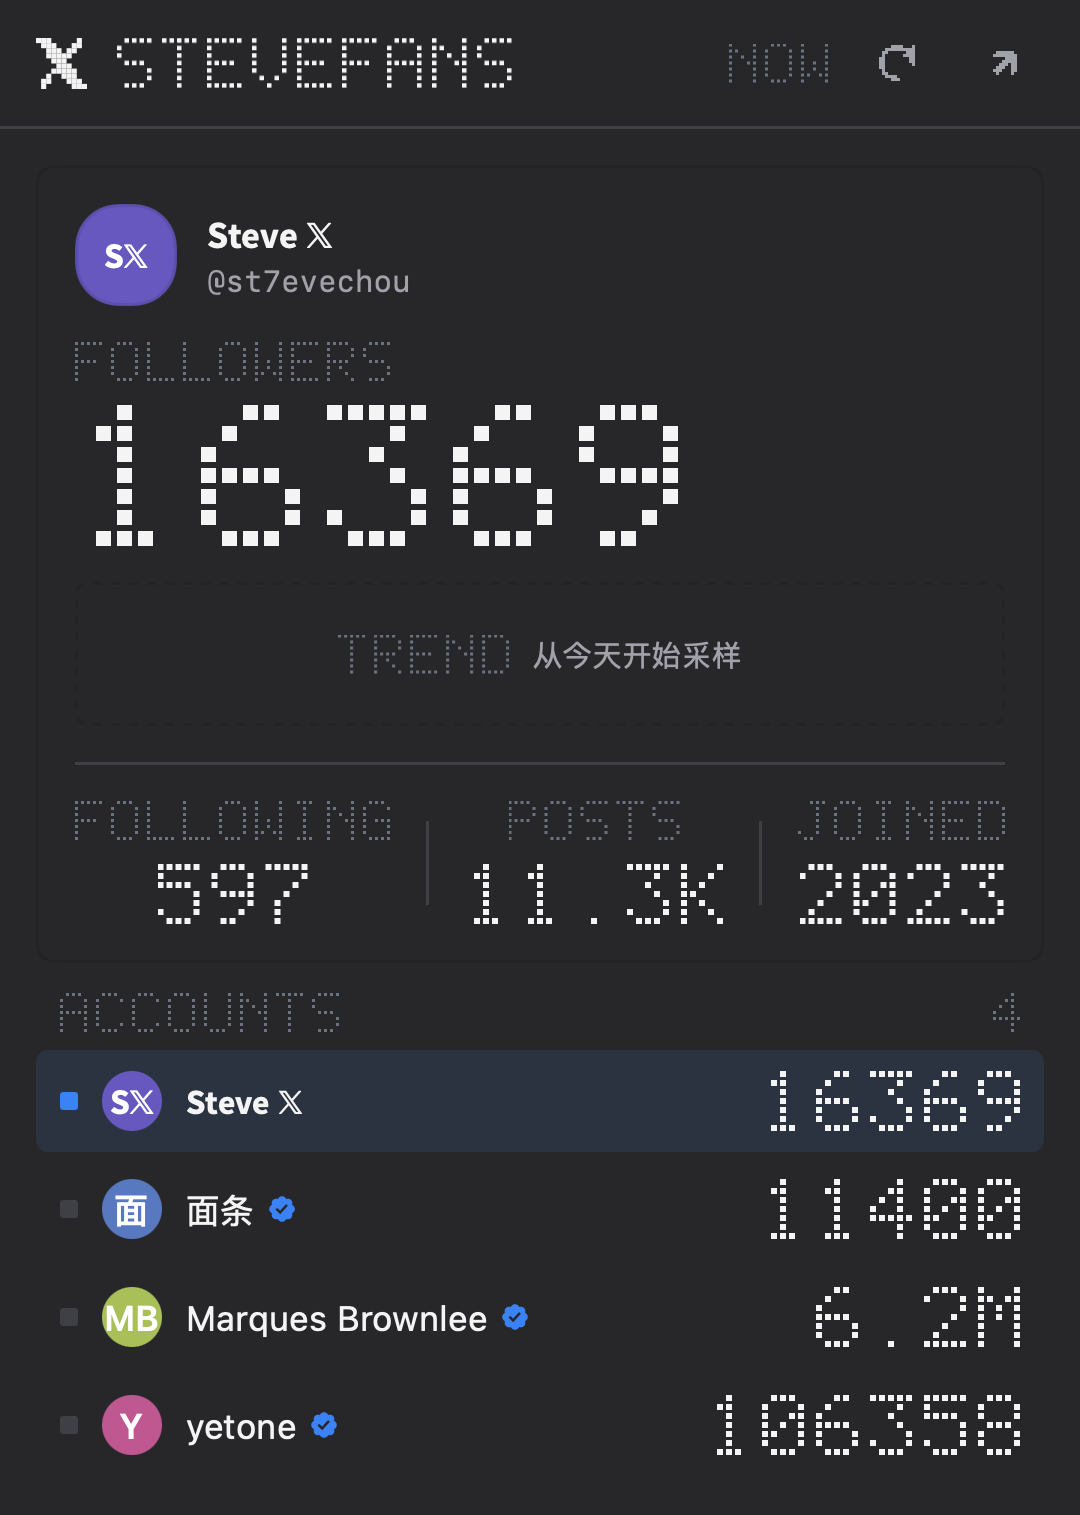
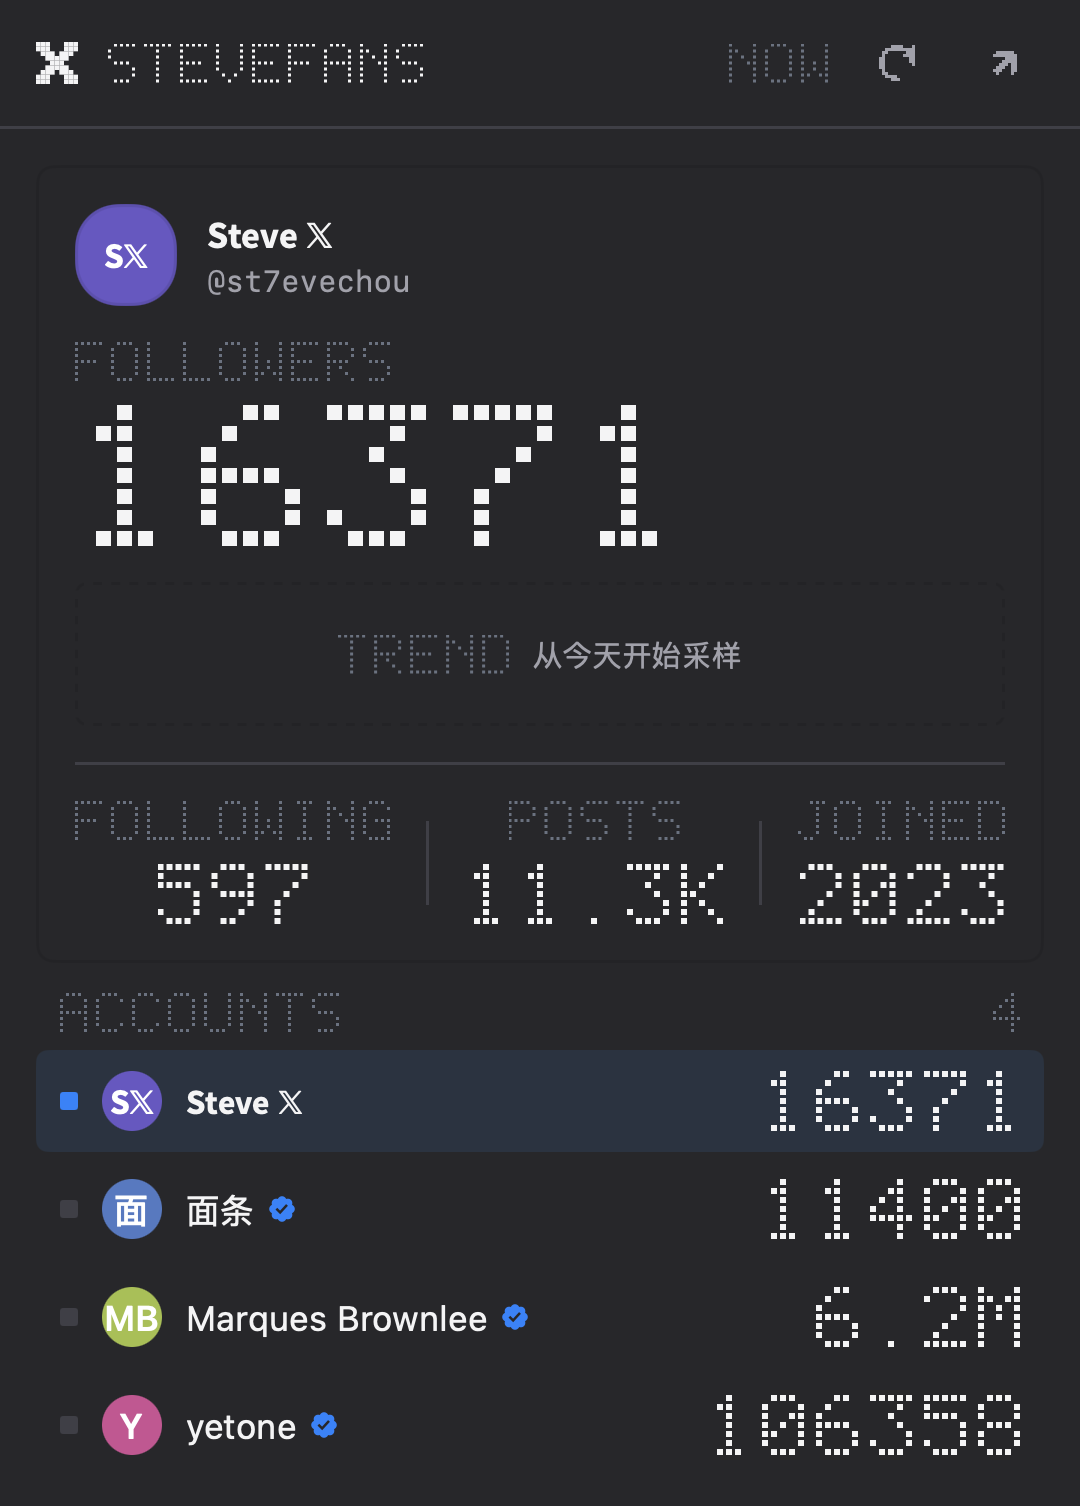
fix(dashboard): 1.12.3 — smaller title and a hand-drawn pixel X
The title drops from 2.5x to 2x (16.5 to 13 DIP) and the X mark becomes a
9x9 pixel drawing at 14 DIP: flat-ended bars read better than the previous
polygon raster, which turned ragged at that size. Header row shrinks to
31 DIP, so the tracked panel height is about 502 DIP with four accounts.

diff --git a/README.md b/README.md
@@ -24,7 +24,7 @@
 - **主读数 + 账号列表**：面板上方是一张主读数卡，显示当前选中账号的头像、昵称、认证徽章、点阵粉丝数、7 天涨跌、14 天面积图，以及 FOLLOWING / POSTS / JOINED。填写多个账号时，下方按行列出每个账号的粉丝数和涨跌。
 - **切换选中账号**：点一行把该账号换到主读数，双击在 X 打开；选择写入 `localStorage`，下次打开保持不变。菜单栏始终显示第一个账号的粉丝数。
 - **点阵数据层**：标题、粉丝数、FOLLOWERS / FOLLOWING / POSTS / JOINED、涨跌、更新时间和错误标签都用 5×7 点阵绘制；昵称、`@handle` 和中文提示保留原生字体。
-- **点阵图标**：表头的 X 标志按品牌轮廓光栅化成 10×10 像素块（17 DIP），刷新和外链图标由 lucide 轮廓光栅化成 14×14 网格；三枚图标都是纯色方格，和点阵文字同一套画法。
+- **点阵图标**：表头的 X 标志是一枚 9×9 像素画（14 DIP，平头收笔），刷新和外链图标由 lucide 轮廓光栅化成 14×14 网格；三枚图标都是纯色方格。
 - **数字滚动动画**：粉丝数首次加载和数值变化时用 650ms 缓出滚动到新值。
 - **趋势图**：14 天原生面积图，可悬停查看每天的数值；横线标出 7 天涨跌的起算点。采样不足两天时显示虚线空态“从今天开始采样”。
 - **X 认证徽章**：认证账号使用官方 X 蓝色认证徽章。
@@ -79,7 +79,7 @@ curl -fsS -X POST "$MB/v0/dashboards" \
 
 - 面板跟随即时系统外观：浅色白底黑字，深色黑底白字。
 - 卡片：surface 底色、6 DIP 圆角、1px alpha 描边，不加阴影；读数之间用 1 DIP Divider 分隔。
-- 点阵比例：标题 2.5×、主读数 7×（5 DIP 方格 + 2 DIP 缝隙）、标签 2×、统计值 3×、涨跌与 ERROR/RETRY 2.25×。
+- 点阵比例：标题 2×、主读数 7×（5 DIP 方格 + 2 DIP 缝隙）、标签 2×、统计值 3×、涨跌与 ERROR/RETRY 2.25×。
 - 主读数在 6 位数字以内保持原尺寸（最宽约 245 DIP，卡片内容区 312 DIP），超过 6 位改用 `M` / `B` 紧凑写法。
 - 账号列表固定 34 DIP 行高，粉丝数 6 位以内显示精确值，更长的显示紧凑写法，保证昵称不被挤没。
 - 趋势图高度 48 DIP，不显示坐标轴和网格，只保留 accent 面积与 1.5 DIP 线，外加一条 7D 起算横线；没有数据时显示同高的虚线框。
